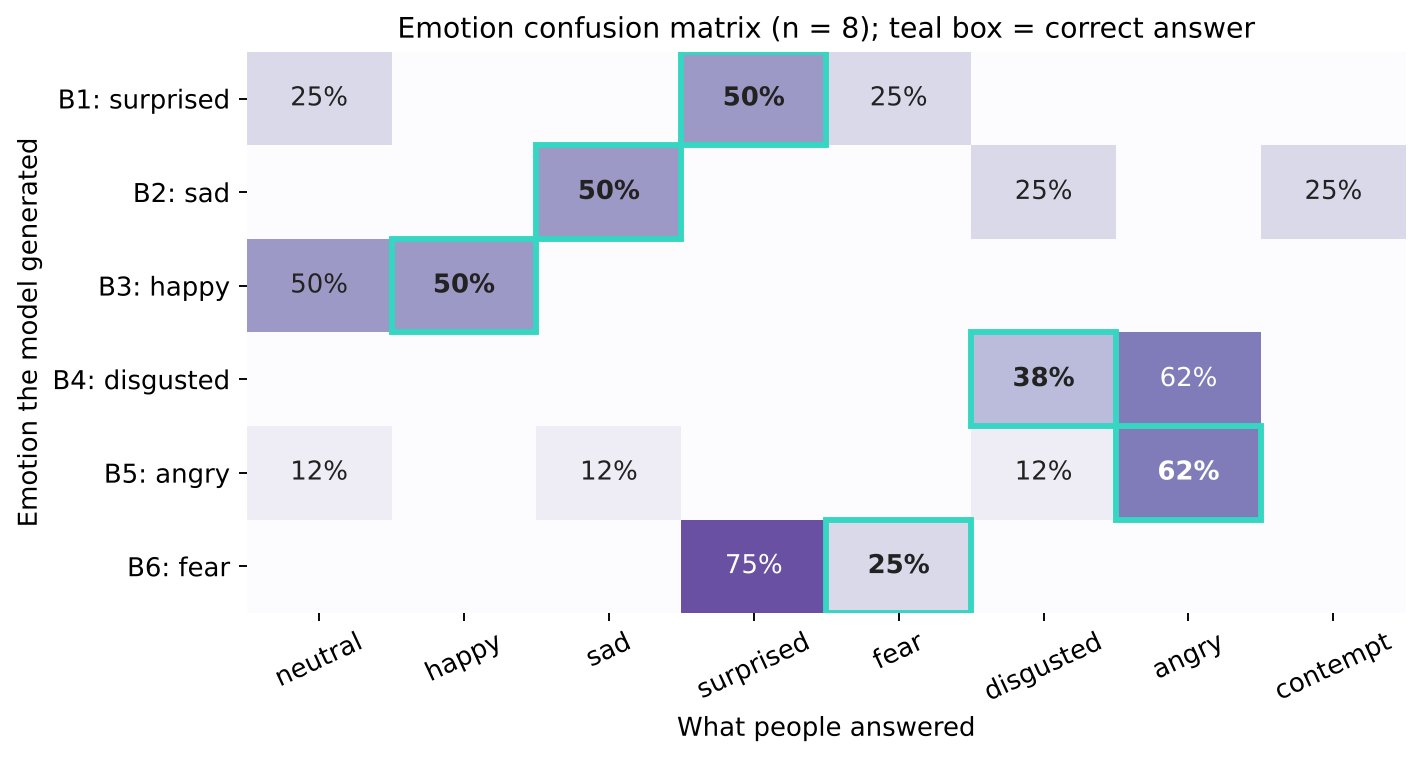
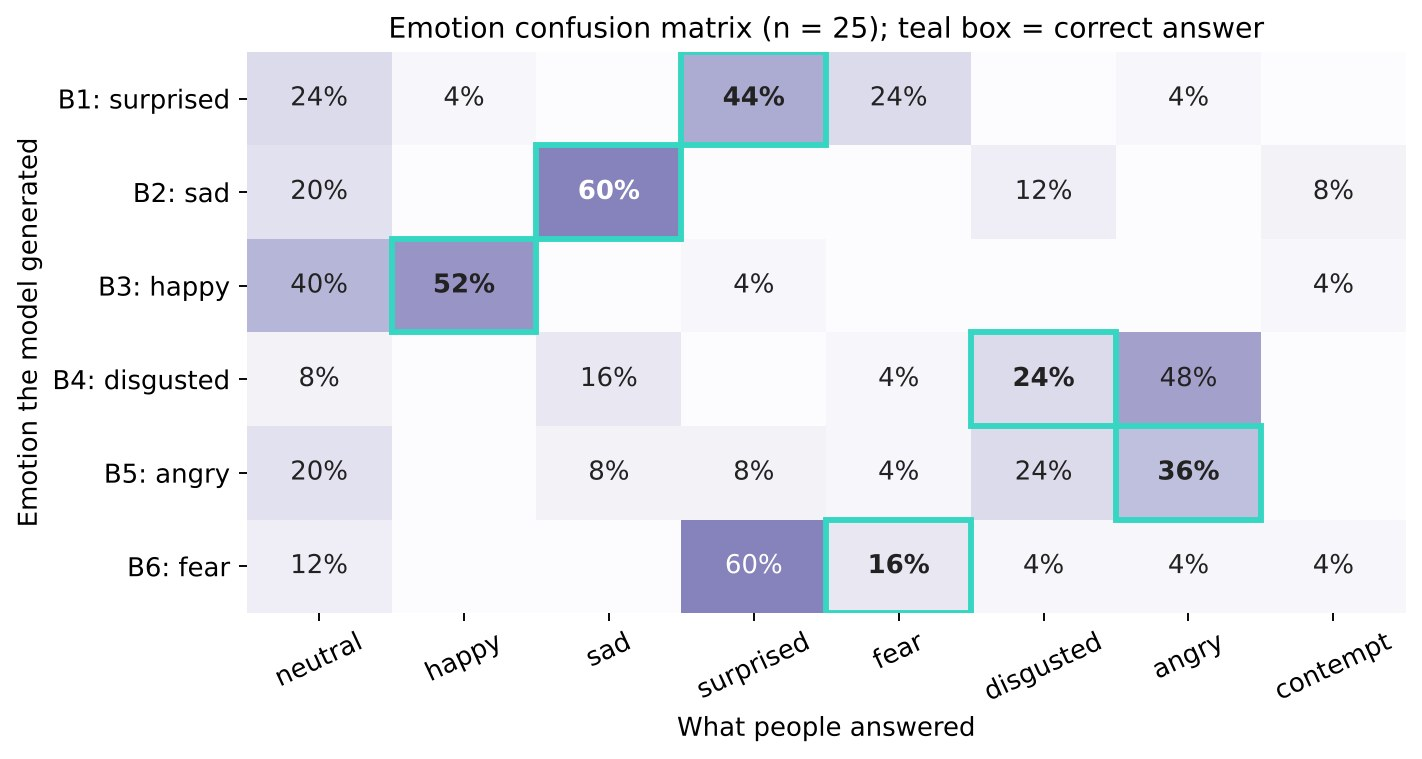
Final survey: 25 responses

diff --git a/index.html b/index.html
@@ -305,12 +305,12 @@ c.predict(..., api_name="/generate")</div>
 <section>
   <div class="wrap">
     <h2>What people saw</h2>
-    <p class="sub">An anonymous survey of 20 people who watched 12 short clips: 4 rated with sound, 6 silent clips where they guessed the emotion, and 2 take pairs (one an identical control).</p>
+    <p class="sub">An anonymous survey of 25 people who watched 12 short clips: 4 rated with sound, 6 silent clips where they guessed the emotion, and 2 take pairs (one an identical control).</p>
     <div class="stats">
-      <div class="stat"><div class="v">3.75<span style="font-size:18px;color:var(--muted)">/5</span></div><div class="l">Lip-sync rating</div></div>
-      <div class="stat"><div class="v">3.35<span style="font-size:18px;color:var(--muted)">/5</span></div><div class="l">Naturalness (no skin texture or hair)</div></div>
-      <div class="stat"><div class="v">41%</div><div class="l">Emotion guessed right on silent clips, vs 12.5% chance</div></div>
-      <div class="stat"><div class="v">13<span style="font-size:18px;color:var(--muted)">/20</span></div><div class="l">Noticed that sampled takes differ</div></div>
+      <div class="stat"><div class="v">3.91<span style="font-size:18px;color:var(--muted)">/5</span></div><div class="l">Lip-sync rating</div></div>
+      <div class="stat"><div class="v">3.50<span style="font-size:18px;color:var(--muted)">/5</span></div><div class="l">Naturalness (no skin texture yet)</div></div>
+      <div class="stat"><div class="v">39%</div><div class="l">Emotion guessed right on silent clips, more than 3× the 12.5% chance</div></div>
+      <div class="stat"><div class="v">15<span style="font-size:18px;color:var(--muted)">/25</span></div><div class="l">Noticed that sampled takes differ</div></div>
     </div>
     <div class="grid2">
       <figure class="frame">
@@ -319,7 +319,7 @@ c.predict(..., api_name="/generate")</div>
       </figure>
       <figure class="frame">
         <img src="assets/confusion.jpg" alt="Confusion matrix of emotion guesses">
-        <figcaption>Sad was easiest. Fear was read as surprise and disgust as anger, the same mix-ups people make with real faces.</figcaption>
+        <figcaption>Sad was easiest (60%). Fear was mostly read as surprise and disgust as anger, the same mix-ups people make with real faces.</figcaption>
       </figure>
     </div>
   </div>
@@ -334,7 +334,7 @@ c.predict(..., api_name="/generate")</div>
           <li>We evaluated 8 of the 32 test speakers, not the full set.</li>
           <li>We used the authors' pretrained weights and did not retrain.</li>
           <li>Rendering on CPU is the slow step (about 2 s per second of video).</li>
-          <li>The survey was small (20 people).</li>
+          <li>The survey was small (25 people).</li>
         </ul>
       </div>
       <div>
